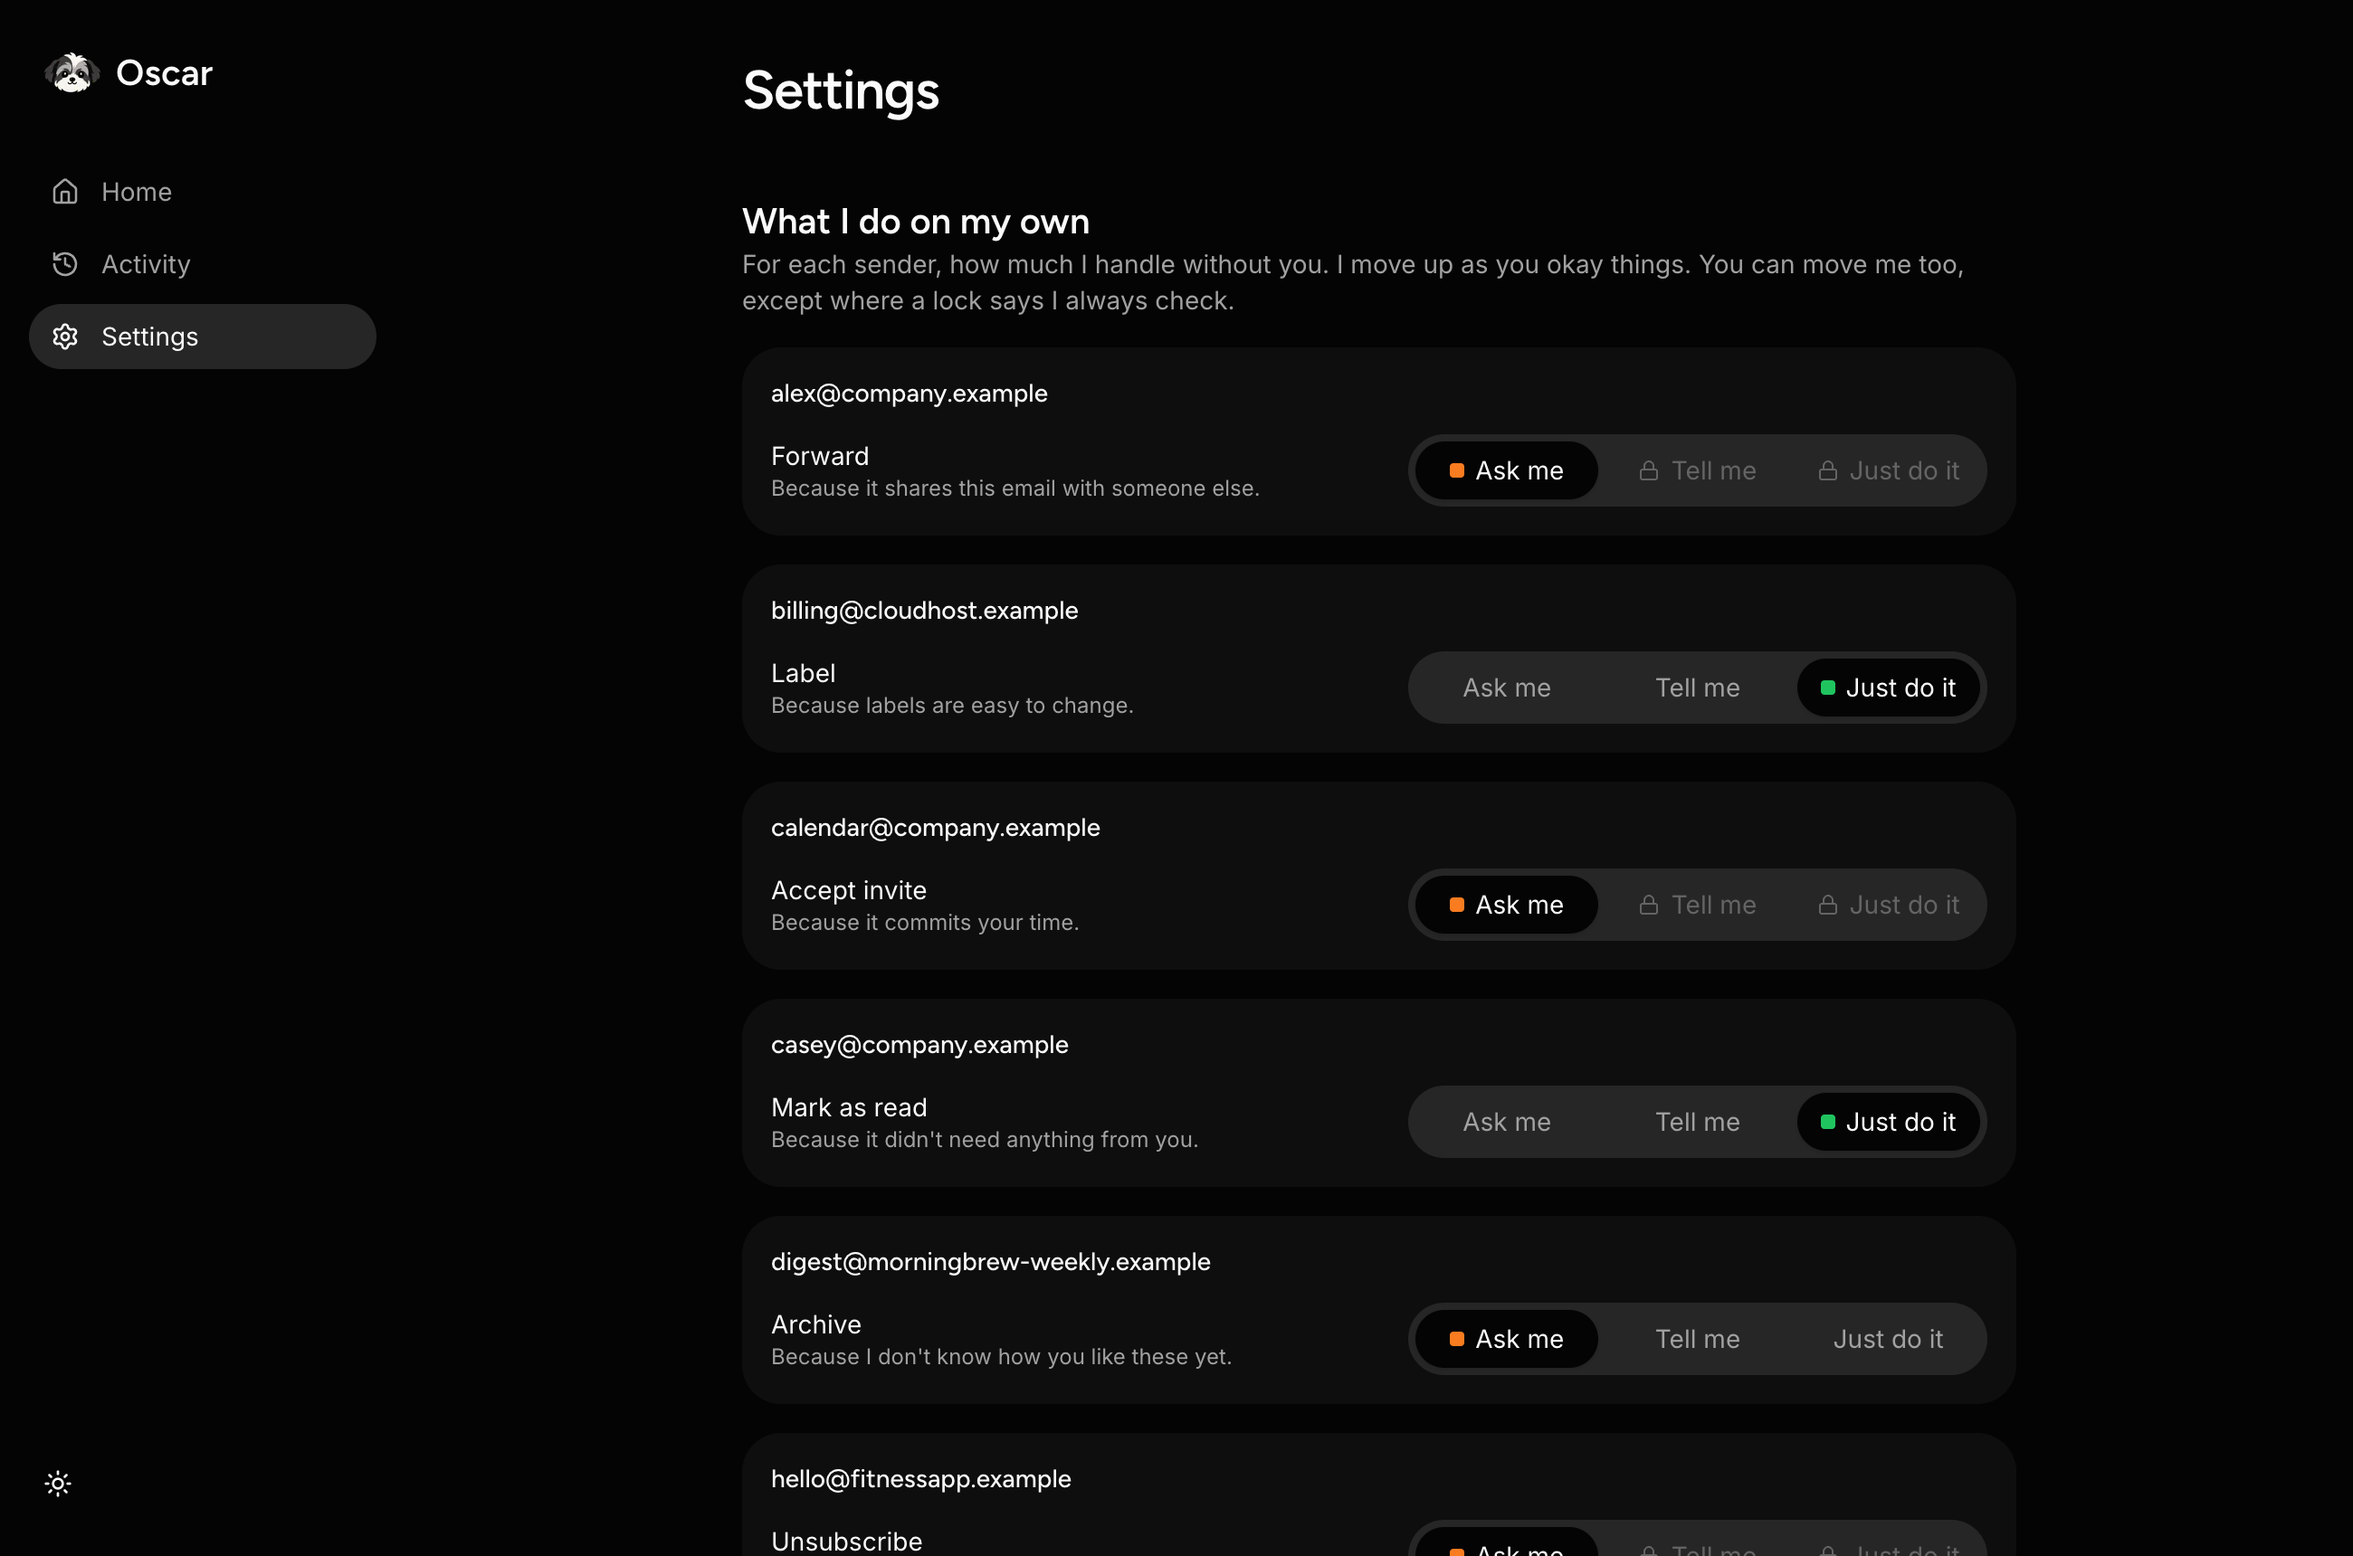
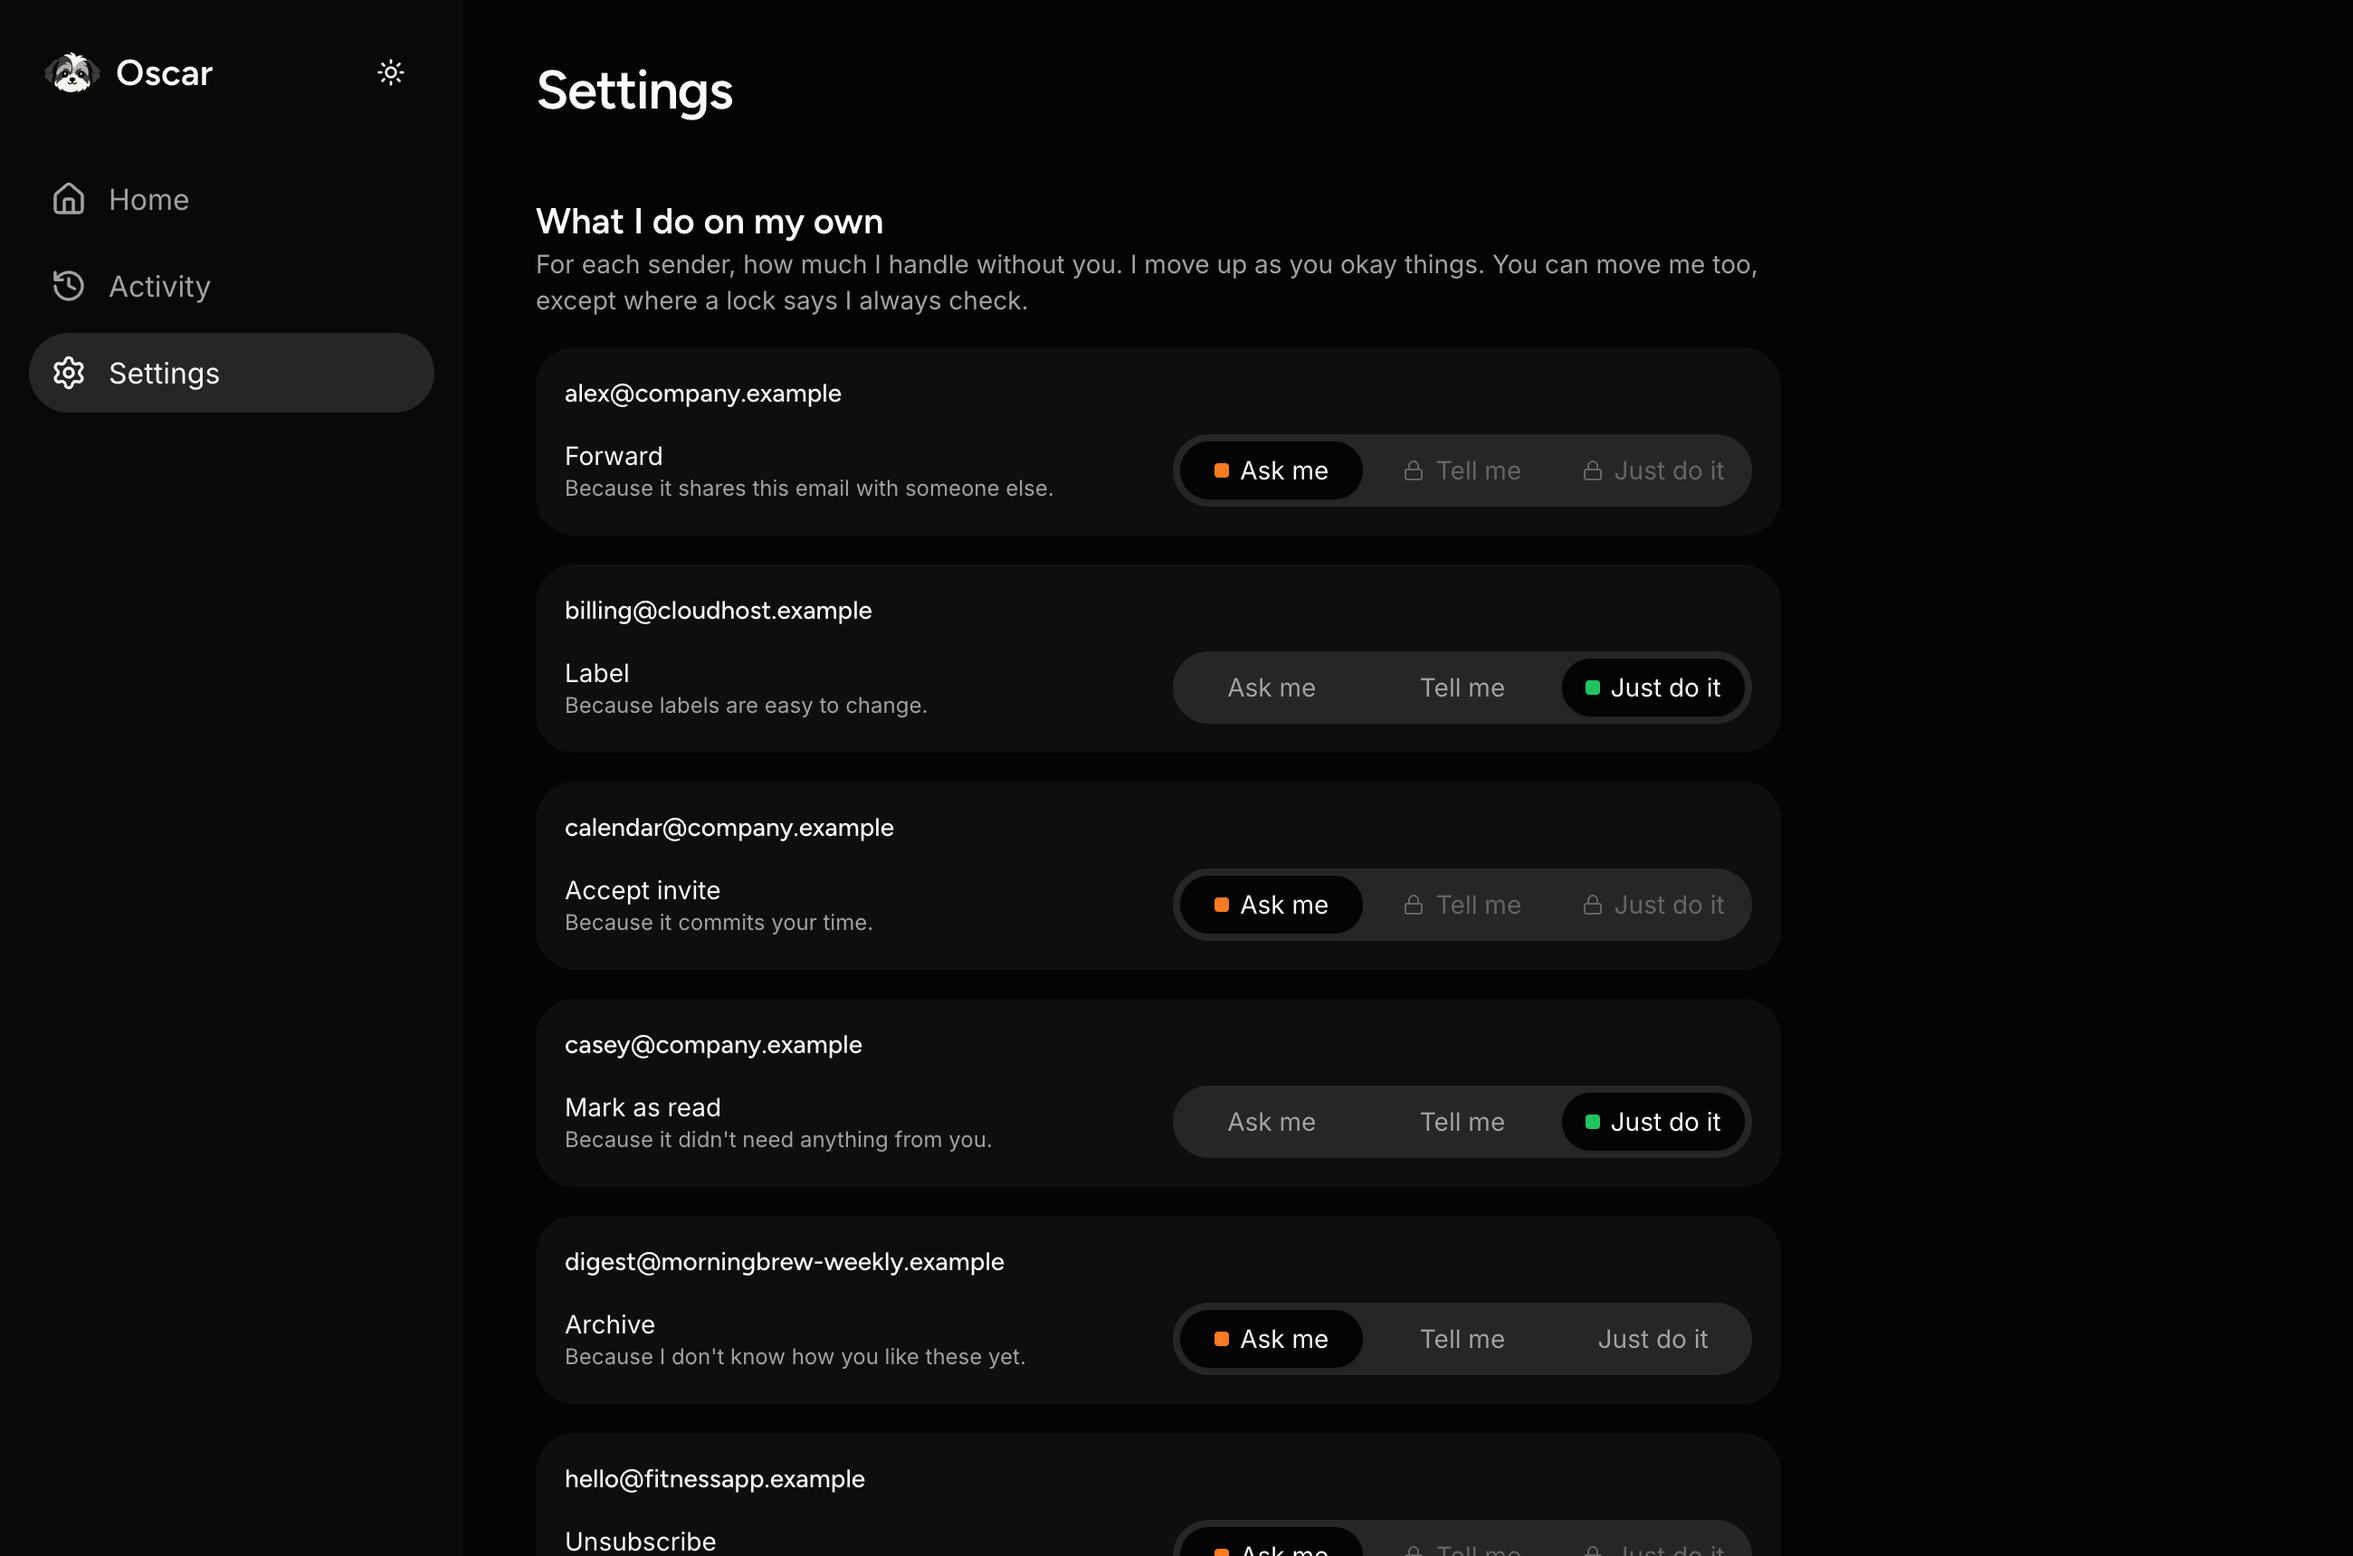
Update the README and DESIGN.md for the card stack

diff --git a/DESIGN.md b/DESIGN.md
@@ -661,3 +661,26 @@ Oscar's working notes moved from the Live feed into each email: open it and tap
 **Why?**. Rows lost their outlines and the details list, to look more like
 wajo.ai: soft cards, one big sentence from Oscar, and colour only from the four
 level squares. /triage and /autonomy redirect to the new places.
+
+### Fifth pass: one stack
+
+Home still asked you to work four ways (a list to open, a swipe card, rows with
+buttons, a chat), so everything that needs you is now one stack of cards, most
+important first: emails for you, then hard-to-undo asks, other asks, and what Oscar
+told you about. Each card says which kind it is, and the buttons change to match
+(Got it; Yes / No; Looks good / Undo). The headline and the stack use the same
+number, and the chat's "what needs me?" uses the same list (`overview.needs_you`).
+
+Emails Oscar brings to you used to stay on your list forever, since there was
+nothing to answer. A new feedback kind, `SEEN` ("Got it"), takes them off. It's
+only allowed on escalated emails and teaches Oscar nothing, because feedback on
+escalated emails never counts towards learning.
+
+"Waiting for your okay" became "Your okay? 🙂": short, and it still reads as a
+question. Oscar's face is now only in the sidebar, the header and the chat.
+
+The review of this pass found: a failed answer still removed the card; the "2 of
+6" counter drifted from the headline as you answered; a card pulled forward by a
+chat link flew off with a "Yes" badge as if answered; and "Always do this" on a
+row left the email on your list. Each was fixed.
+

diff --git a/README.md b/README.md
@@ -55,7 +55,8 @@ Each decision prints an id. Use it to tell Oscar how he did:
 ```
 
 Feedback kinds: `APPROVE`, `REJECT`, `UNDO`, `EDIT_THEN_SEND`, `ALWAYS_DO_THIS`,
-`ALWAYS_ASK_ME`. To see what Oscar has learned from it:
+`ALWAYS_ASK_ME`, and `SEEN` ("got it" on an email Oscar brought to you, which
+teaches him nothing). To see what Oscar has learned from it:
 
 ```bash
 .venv/bin/python -m oscar learned
@@ -76,15 +77,18 @@ npm run dev
 Open http://localhost:3000. Until Gmail is connected, the inbox is the example
 emails: click **Bring in the demo emails** on Home (it's also in **Settings**).
 
-- **Home** has what needs you. Swipe the cards under **Okay!** to answer Oscar,
-  and talk to him at the bottom: ask what needs you, or teach him a rule like
+- **Home** has what needs you, one card at a time, most important first: emails
+  for you (**Got it**), ones waiting for **your okay** (yes or no), and what he
+  told you about (looks good or undo). Swipe sideways or use the buttons. Under the
+  cards you can talk to Oscar: ask what needs you, or teach him a rule like
   "always archive emails from digest@morningbrew-weekly.example".
 - **Activity** has everything that's done.
 - **Settings** shows what Oscar does on his own for each sender, and lets you
   change it.
 
 Say yes to the newsletter a few times and bring the emails in again to watch
-Oscar learn. Open any email and tap **Why?** to see how he decided.
+Oscar learn. Tap **Why?** on a card, or open any email in a list, to see how he
+decided.
 
 ## Run the API
 
